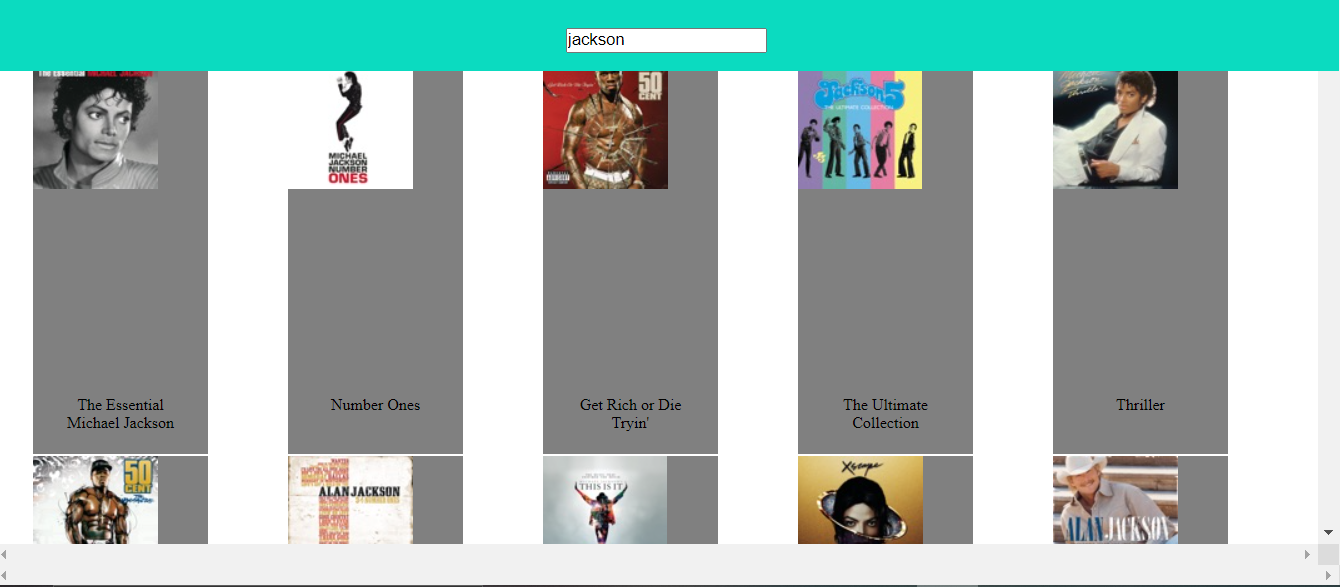
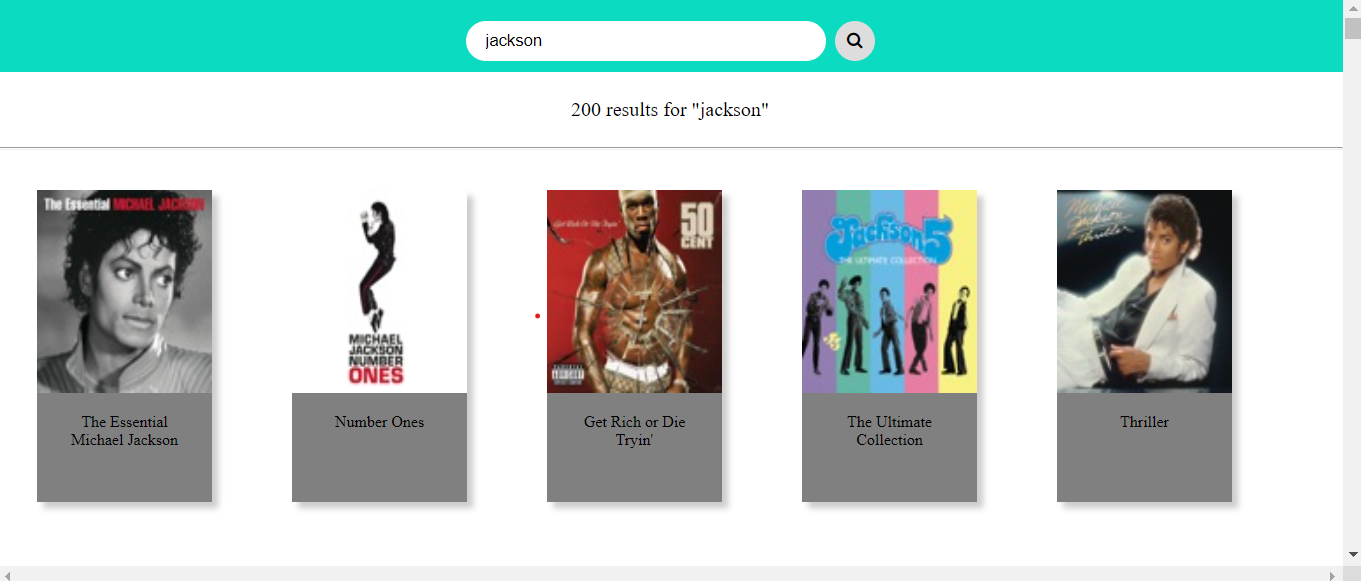
Exam final version

diff --git a/typescript/test.ts b/typescript/test.ts
@@ -1,0 +1,161 @@
[1 lines of base64/hex data omitted]
+
+// enum Direction {
+//     Up ,
+//     Down=10,
+//     Left,
+//     Right,
+// };
+
+
+
+// console.log(Direction);
+// console.log(Direction['Up']);
+// console.log(Direction.Up);
+// console.log(Direction['Down']);
+// console.log(Direction[10]);
+
+
+
+// enum Direction {
+//     Up = "UP",
+//     Down = "DOWN",
+//     Left = "LEFT",
+//     Right = "RIGHT",
+// }
+
+
+// console.log(Direction);
+// let x = Direction.Up;
+// console.log(x);
+// console.log(Direction[x])
+
+
+// enum AppStatus {
+//     ACTIVE = "Yes",
+//     INACTIVE = 1,
+//     ONHOLD,
+//     ONSTOP = "Stop",
+// };
+
+// console.log(AppStatus);
+// console.log(AppStatus.ONHOLD);
+// console.log(AppStatus[2]);
+
+
+//////////////////////////////////////////////////////////////////////////
[1 lines of base64/hex data omitted]
+/////////////////////////////////////////////////////////////////////////
+
+// let arr:string[] = ['A', 'B', 'C', 'D'];
+
+//let arr:Array<string> = ['A', 'B', 'C', 'D']; 两种写法都可
+
+// console.log(arr);
+// arr.push('E');
+// console.log(arr);
+
+
+/////////////////////////////////////////////////////////////////////////
[1 lines of base64/hex data omitted]
+//////////////////////////////////////////////////////////////////////////
+
+// interface IPerson {
+//     firstName: string,
+//     lastName: string,
+//     sayHi(): string,
+// };
+
+// let p1:IPerson = {firstName: "Tom", lastName: "Hanks", sayHi():string {return "Hello";}};
+
+
+
+// console.log(p1);
+
+
+
+// interface searchFunc {(srcstr: string, substr: string): boolean;}
+
+// let myFunc : searchFunc;
+
+// myFunc = function (srcstr: string, substr: string): boolean {
+//     return srcstr.search(substr) !== -1;
+// }
+
+// console.log(myFunc("abcd", "abc"));
+
+
+
+//////////////////////////////////////////////////////////////////
[1 lines of base64/hex data omitted]
+///////////////////////////////////////////////////////////////////////
+
+// function creatArray<T>(length: number, value: T): Array<T> {
+//     let arr: T[] = [];
+//     for (let i = 0; i < length; i++) {
+//         arr.push(value);
+//     }
+//     return arr;
+// }
+
+// console.log(creatArray<string>(3, 'Hi'));
+
+
+
+// function swap <T, U> (arr: [T, U]): [U, T] {
+//     return [arr[1], arr[0]];
+// }
+
+// console.log(swap <string, number> (["a", 1]));
+
+
+
+
+//////////////////////////////////////////////////////////////
+////////generic constriants//////////////////////////////////
+/////////////////////////////////////////////////////////////
+
+
+
+// interface Lengthwise {
+//     length: number;
+// }
+
+
+// function test <T extends Lengthwise> (arg: T):T{
+//     console.log(arg.length);
+//     return arg;
+// }
+
+// test <string> ("abc");
+
+
+// interface searchFunc {(srcstr: string, substr: string): boolean;}
+
+// let myFunc : searchFunc;
+
+// myFunc = function (srcstr: string, substr: string): boolean {
+//     return srcstr.search(substr) !== -1;
+// }
+
+// console.log(myFunc("abcd", "abc"));
+
+
+
+// interface CreateArrayFunc {
+//     <T> (length: number, value: T): Array<T>;
+// }
+
+// let myFunc: CreateArrayFunc;
+
+// myFunc = function <T> (length: number, value: T): Array<T> {
+//     let arr = [];
+//     for (let i = 0; i < length; i++) {
+//         arr.push(value);
+//     }
+//     return arr;
+// }
+
+// console.log(myFunc<string>(5, 'x'));
+
+

diff --git a/Exam/index1.html b/Exam/index1.html
@@ -1,24 +1,29 @@
 <!DOCTYPE html>
 <html lang="en">
+
 <head>
     <meta charset="UTF-8">
     <meta http-equiv="X-UA-Compatible" content="IE=edge">
     <meta name="viewport" content="width=device-width, initial-scale=1.0">
-    <link rel="stylesheet" href="index.css">
+    <link rel="stylesheet" href="index1.css">
+    <link rel="stylesheet" href="https://cdnjs.cloudflare.com/ajax/libs/font-awesome/4.7.0/css/font-awesome.min.css">
     <script src="https://cdnjs.cloudflare.com/ajax/libs/fetch-jsonp/1.0.6/fetch-jsonp.min.js"></script>
-    <script async src="index.js"></script>
+    <script async src="index1.js"></script>
     <title>Document</title>
 </head>
+
 <body>
     <header class="search_bar">
-            <input class="input" id="input" type="text">
+        <!-- <input class="input" id="input" type="text"> -->
+        <input type="text" placeholder="Search.." name="search" class="input" id="input">
+        <button type="submit"><i class="fa fa-search"></i></button>
     </header>
     <div class="num_songs">
-        <p id="num_songs">Search Albums by ArtistName:</p>
+        <p id="num_songs">Search Albums by Artist Name:</p>
     </div>
     <hr>
     <main class="content" id="content">
-        <div class="album">
+        <!-- <div class="album">
             <div class="image"></div>
             <div class="song_title">None</div>
         </div>
@@ -38,7 +43,8 @@
             <div class="image"></div>
             <div class="song_title">None</div>
         </div>
-        
+         -->
     </main>
 </body>
+
 </html>

diff --git a/Exam/index1.css b/Exam/index1.css
@@ -2,8 +2,7 @@
     --height-header: 60px;
     --height-card: 250px;
     --width-card: 140px;
-
-
+    
     --color-blue: rgb(11, 219, 192);
     --color-red-button: rgb(99, 3, 3);
     --color-red-li-hover: rgb(27, 172, 8)
@@ -18,7 +17,10 @@
 html, body {
     width: 100%;
     height: 100%;
-    overflow:scroll
+}
+
+body {
+    overflow: scroll;
 }
 
 .search_bar {
@@ -31,9 +33,30 @@ html, body {
     background-color: var(--color-blue);
 }
 
-.btn {
-    width: 1.8rem;
-    height: 1.8rem;
+.search_bar .input {
+    width: 18rem;
+    height: 2rem;
+    border: none;
+    border-radius: 1rem;
+    padding-left: 1rem;
+}
+
+.search_bar .input:focus, button:focus{
+    border: none;
+    outline: none;
+}
+
+.search_bar button {
+    background-color: #ddd;
+    border: none;
+    width: 2rem;
+    height: 2rem;
+    border-radius: 1rem;
+    cursor: pointer;
+}
+
+.search_bar button:hover {
+    background: #ccc;
 }
 
 .num_songs {
@@ -57,20 +80,27 @@ html, body {
 
 .album {
     margin: 2rem;
+    text-align: center;
     width: var(--width-card);
     height: var(--height-card);
     background-color: grey;
+    box-shadow: 5px 5px 5px #ccc;
 }
 
 .image {
+    width: var(--width-card);
+    height: calc(0.65*var(--height-card));
+    background-color: grey;
+}
+
+img {
     width: 100%;
     height: 100%;
-    background-color: grey;
 }
 
 .song_title {
     width: 100%;
-    height: 25%;
+    height: 35%;
     font-size: 0.8rem;
     text-align: center;
     padding: 1rem;

diff --git a/Exam/index1.js b/Exam/index1.js
@@ -1,0 +1,43 @@
+
+
+fetchData = function (value) {
+  
+  url_get = `https://itunes.apple.com/search?term=${value}&media=music&entity=album&attribute=artistTerm&limit=500`;
+  console.log(url_get);
+
+
+    fetchJsonp(url_get)
+  .then(res => res.json())
+  .then(res => {
+      let data = res.results;
+      let num_songs_ele = document.querySelector("#" + "num_songs");
+      num_songs_ele.innerHTML = `${data.length} results for "${value}"`;
+      let template = '';
+      data.forEach(ele => {
+        template += `<div class="album">
+                        <div class="image"><img src= ${ele.artworkUrl100} alt="img"></div>
+                        <div class="song_title">${ele.collectionName}</div>
+                    </div>`
+      })
+      document.querySelector('#' + 'content').innerHTML = template;
+      console.log(data[0])
+  })
+    
+}
+
+
+const InputEle = document.querySelector("#" + "input");
+
+InputEle.addEventListener("keyup", (event) => {
+  if (event.key === "Enter") {
+    console.log(event.target.value);
+    fetchData(event.target.value);
+  }
+});
+
+const btnEle = document.querySelector("button");
+btnEle.addEventListener('click', () => {
+  console.log(InputEle.value);
+  fetchData(InputEle.value);
+});
+

diff --git a/typescript/test.js b/typescript/test.js
@@ -1,0 +1,10 @@
[1 lines of base64/hex data omitted]
+var myFunc;
+myFunc = function (length, value) {
+    var arr = [];
+    for (var i = 0; i < length; i++) {
+        arr.push(value);
+    }
+    return arr;
+};
+console.log(myFunc(5, 'x'));
